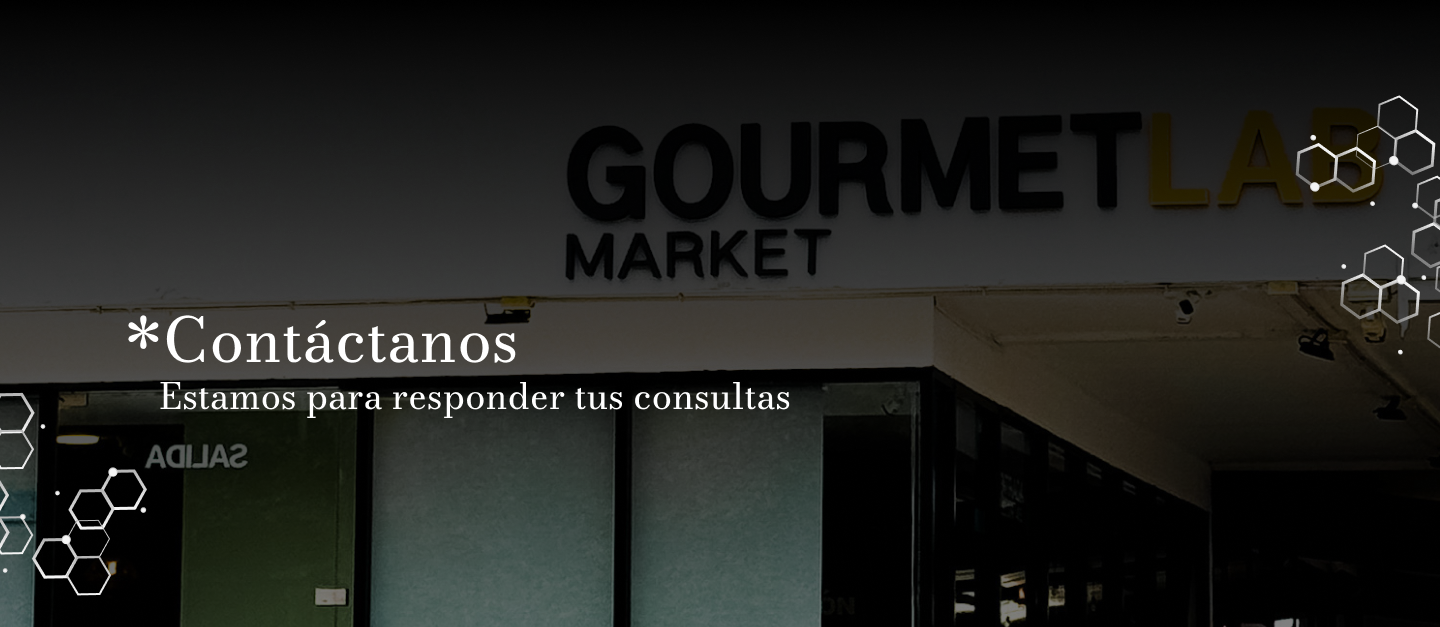
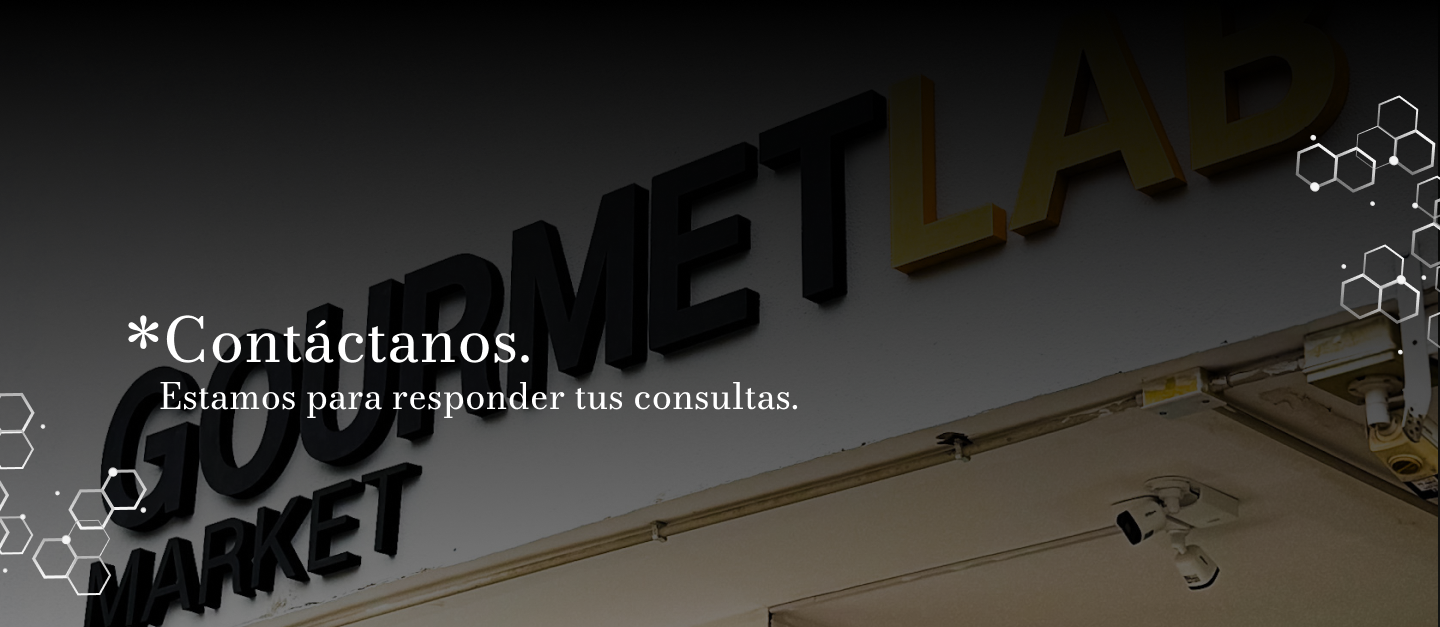
pantallas

diff --git a/pages/nosotros.html b/pages/nosotros.html
@@ -39,7 +39,7 @@
 </header>
 <main>
     <section class="full-pantalla">
-        <img src="../img/fondo.png" alt="Fondo animado">
+        <img src="../img/nosotros.png" alt="Fondo animado">
     </section>
     <section class="nosotros">
         <h2>Sobre Gourmet Lab Market</h2>

diff --git a/pages/novedades.html b/pages/novedades.html
@@ -39,7 +39,7 @@
 </header>
 <main>
     <section class="full-pantalla">
-        <img src="../img/fondo.png" alt="Fondo animado">
+        <img src="../img/novedades.png" alt="Fondo animado">
     </section>
     <!-- SECCIÓN DE NOVEDADES -->
 <section class="novedades">
